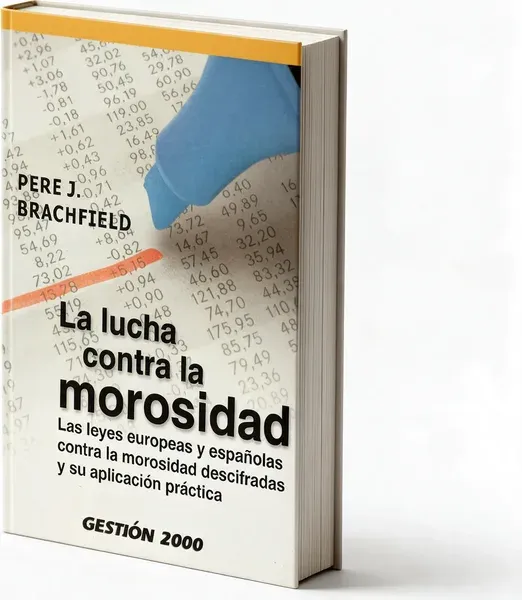
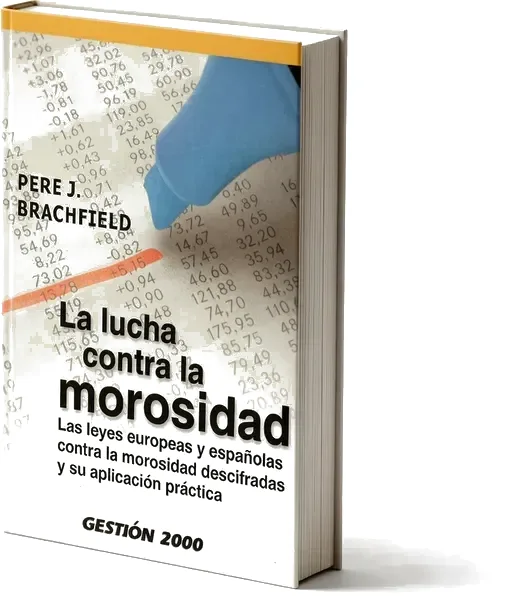
Estantería: fondos a blanco puro y cada libro enlaza a Amazon
- Los renders traían el gris de estudio: ajuste selectivo (solo píxeles
  claros y neutros → blanco, en dos pasadas) que funde el fondo con la
  balda blanca conservando la sombra de cada libro.
- Cada libro es ahora un enlace a su búsqueda en Amazon (título + Pere
  Brachfield, en pestaña nueva, con elevación al pasar el ratón) — se
  enlaza a la búsqueda y no a fichas de producto para no depender de
  ASIN que cambian. Nota al pie actualizada.

Claude-Session: https://claude.ai/code/session_01MKobAMhVFKZJoMSwtaDZZq

diff --git a/src/app/(public)/page.tsx b/src/app/(public)/page.tsx
@@ -563,18 +563,26 @@ export default async function LandingPage() {
           </p>
           <div className="flex flex-wrap items-end justify-center gap-x-2 gap-y-6 rounded-lg border border-border-soft bg-surface px-4 py-5 sm:justify-between">
             {PERE_BOOKS.map((b) => (
-              <Image
+              <a
                 key={b.t}
-                src={b.img}
-                alt={`Libro «${b.t}»`}
-                width={b.w}
-                height={600}
-                className="h-40 w-auto sm:h-48"
-              />
+                href={`https://www.amazon.es/s?k=${encodeURIComponent(`Pere Brachfield ${b.t}`)}`}
+                target="_blank"
+                rel="noopener noreferrer"
+                aria-label={`Ver «${b.t}» en Amazon`}
+                className="transition-transform hover:-translate-y-1"
+              >
+                <Image
+                  src={b.img}
+                  alt={`Libro «${b.t}»`}
+                  width={b.w}
+                  height={600}
+                  className="h-40 w-auto sm:h-48"
+                />
+              </a>
             ))}
           </div>
           <p className="mt-4 text-sm text-ink-3">
-            Disponibles en las principales librerías y en Amazon.
+            Disponibles en las principales librerías — haz clic en un libro para verlo en Amazon.
           </p>
         </div>
       </Section>
